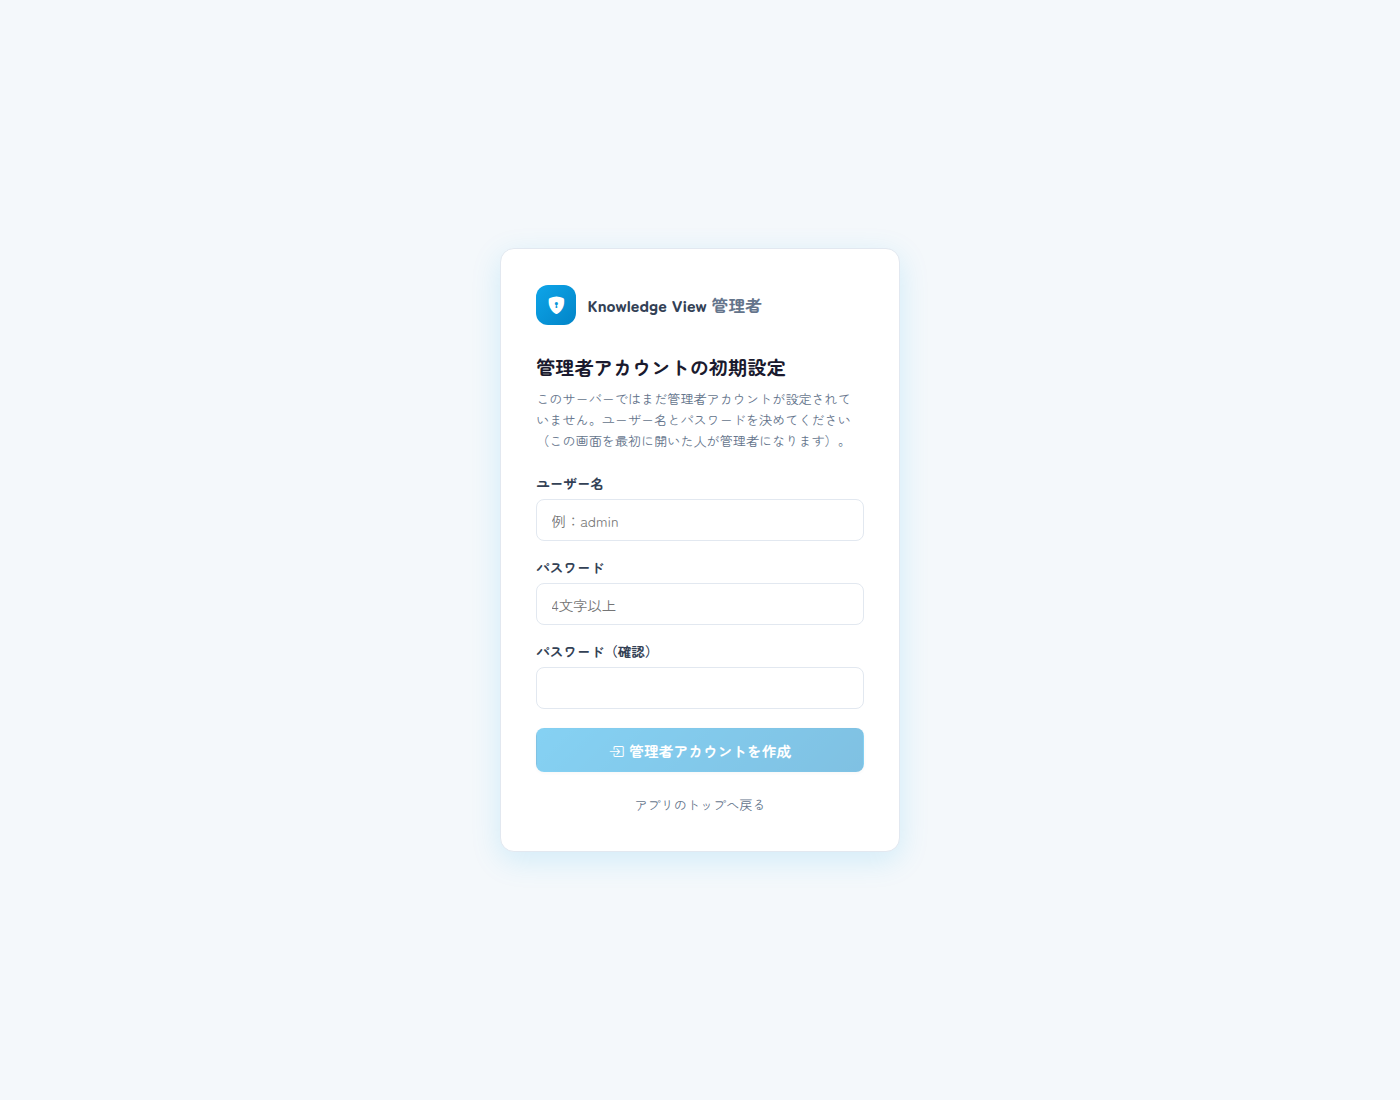
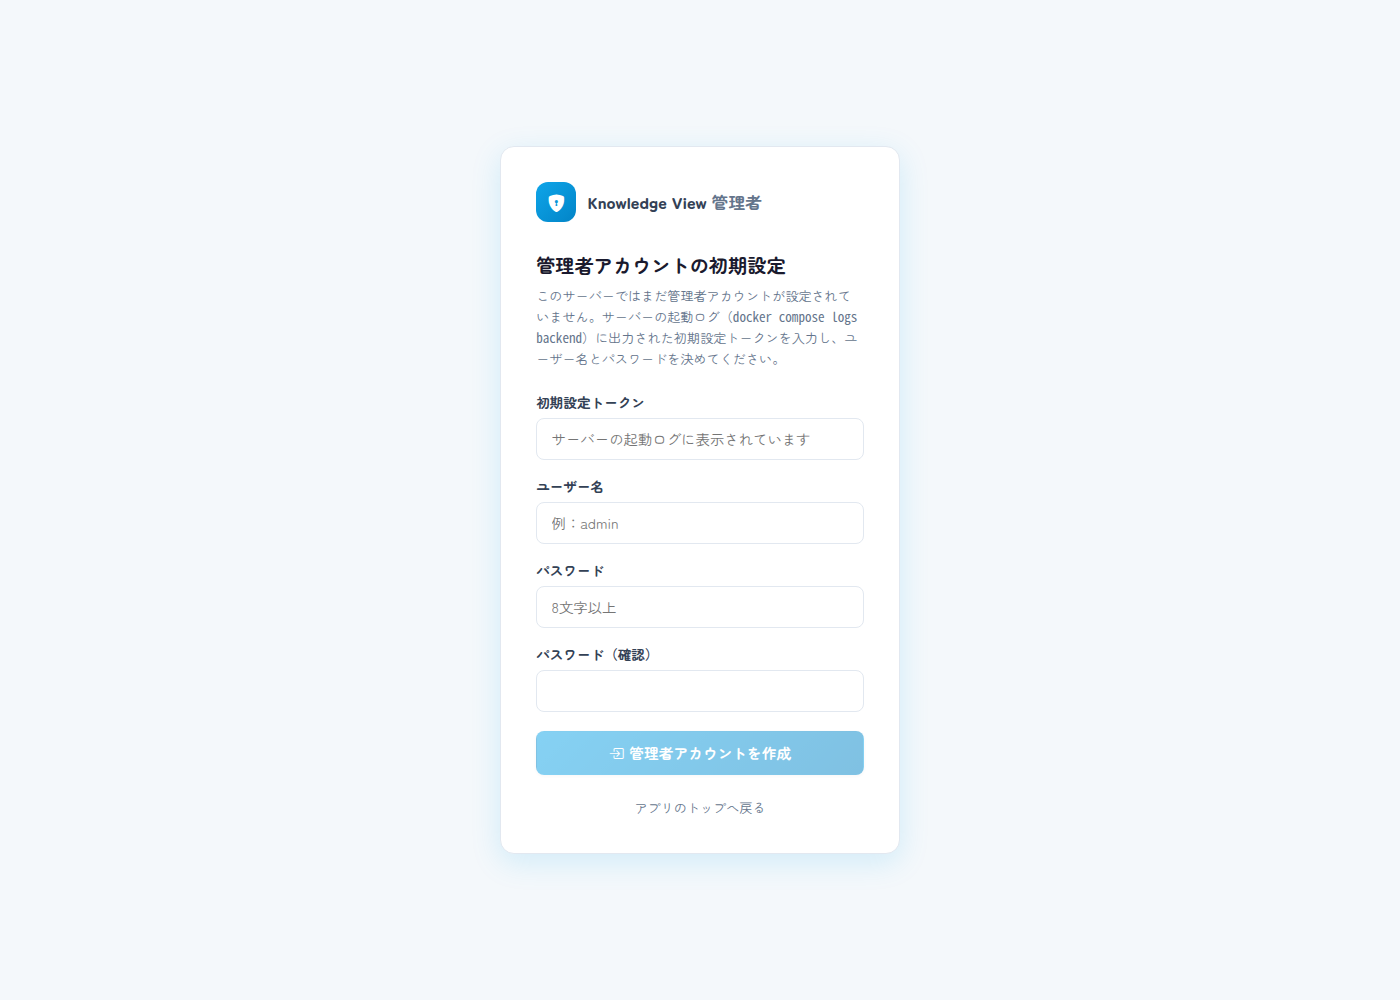
Update manual/README for the setup-token flow, add in-page search
The manual and README still described the pre-hardening admin setup
flow (first visitor picks username/password, no token). Updated both
to match the current flow, and regenerated the setup screenshot to
show the token field.

Also added a find-in-page style search to the manual (docs/manual.html):
keyword input with match count, next/prev navigation, and highlighting,
implemented as a dependency-free text-node walker so it doesn't touch
existing markup (images, code blocks, etc.).

Changed region(s): [[0.3686, 0.186, 0.6143, 0.62], [0.3686, 0.651, 0.645, 0.806]]

diff --git a/docs/manual.html b/docs/manual.html
@@ -22,6 +22,14 @@
 <div class="manual-hero container">
   <h1>取り扱い説明書</h1>
   <p>アカウント作成から本文エディタの使い方、チームでの運用、サーバー管理者向けの管理者パネル、デスクトップ版の使い方までをまとめています。</p>
+  <div class="manual-search">
+    <i class="manual-search-icon">🔍</i>
+    <input type="text" id="manual-search-input" placeholder="ページ内をキーワードで検索..." autocomplete="off">
+    <span id="manual-search-count"></span>
+    <button type="button" id="manual-search-prev" title="前へ" aria-label="前の一致へ">▲</button>
+    <button type="button" id="manual-search-next" title="次へ" aria-label="次の一致へ">▼</button>
+    <button type="button" id="manual-search-clear" title="クリア" aria-label="検索をクリア">✕</button>
+  </div>
 </div>
 
 <div class="container manual-layout">
@@ -172,8 +180,8 @@
       <p class="lead">サーバー版には、すべてのプロジェクトを横断的に管理できる管理者アカウントがあります。デスクトップ版にはこの機能はありません。</p>
 
       <h3>初回セットアップ</h3>
-      <p>サーバーを起動した後、最初に <code>/admin</code> を開いた人がユーザー名・パスワードを決めます。一度設定すると、以降は誰でも初期設定画面には戻れず、通常のログイン画面になります。</p>
-      <img src="assets/manual-admin-setup.png" alt="管理者アカウントの初期設定画面">
+      <p>サーバーを起動すると、初期設定トークンが自動生成されサーバーの起動ログに出力されます（<code>docker compose logs backend</code> で確認できます。ユーザーが何かを事前に設定する必要はありません）。<code>/admin</code> を開き、そのトークンを入力した上でユーザー名・パスワードを決めてください。一度設定すると、以降は誰でも初期設定画面には戻れず、通常のログイン画面になります。</p>
+      <img src="assets/manual-admin-setup.png" alt="管理者アカウントの初期設定画面（初期設定トークンの入力欄あり）">
 
       <h3>管理者パネルでできること</h3>
       <img src="assets/manual-admin-dashboard.png" alt="管理者パネルのダッシュボード">
@@ -225,3 +233,115 @@
     <p><a href="https://github.com/nishi-25/knowledge-tool" target="_blank" rel="noopener">GitHub リポジトリ</a> ・ <a href="index.html">Knowledge View トップページ</a></p>
   </div>
 </footer>
+
+<script>
+(function () {
+  const content = document.querySelector('.manual-content');
+  const input = document.getElementById('manual-search-input');
+  const countEl = document.getElementById('manual-search-count');
+  const prevBtn = document.getElementById('manual-search-prev');
+  const nextBtn = document.getElementById('manual-search-next');
+  const clearBtn = document.getElementById('manual-search-clear');
+  if (!content || !input) return;
+
+  const pristineHTML = content.innerHTML;
+  let hits = [];
+  let currentIndex = -1;
+
+  function escapeRegExp(s) {
+    return s.replace(/[.*+?^${}()|[\]\\]/g, '\\$&');
+  }
+
+  function clearHighlights() {
+    content.innerHTML = pristineHTML;
+    hits = [];
+    currentIndex = -1;
+  }
+
+  function highlight(query) {
+    const re = new RegExp(escapeRegExp(query), 'gi');
+    const walker = document.createTreeWalker(content, NodeFilter.SHOW_TEXT, {
+      acceptNode(node) {
+        if (!node.nodeValue || !re.test(node.nodeValue)) return NodeFilter.FILTER_REJECT;
+        re.lastIndex = 0;
+        const parentTag = node.parentNode && node.parentNode.tagName;
+        if (parentTag === 'SCRIPT' || parentTag === 'STYLE') return NodeFilter.FILTER_REJECT;
+        return NodeFilter.FILTER_ACCEPT;
+      },
+    });
+
+    const targets = [];
+    let n;
+    // eslint-disable-next-line no-cond-assign
+    while ((n = walker.nextNode())) targets.push(n);
+
+    targets.forEach((textNode) => {
+      const text = textNode.nodeValue;
+      re.lastIndex = 0;
+      const frag = document.createDocumentFragment();
+      let lastEnd = 0;
+      let m;
+      // eslint-disable-next-line no-cond-assign
+      while ((m = re.exec(text))) {
+        if (m.index > lastEnd) frag.appendChild(document.createTextNode(text.slice(lastEnd, m.index)));
+        const mark = document.createElement('mark');
+        mark.className = 'manual-hit';
+        mark.textContent = m[0];
+        frag.appendChild(mark);
+        lastEnd = m.index + m[0].length;
+        if (m.index === re.lastIndex) re.lastIndex++; // 空マッチ対策
+      }
+      if (lastEnd < text.length) frag.appendChild(document.createTextNode(text.slice(lastEnd)));
+      textNode.parentNode.replaceChild(frag, textNode);
+    });
+
+    hits = Array.from(content.querySelectorAll('mark.manual-hit'));
+  }
+
+  function updateCount() {
+    countEl.textContent = hits.length ? `${currentIndex + 1} / ${hits.length}` : (input.value ? '0件' : '');
+    prevBtn.disabled = hits.length === 0;
+    nextBtn.disabled = hits.length === 0;
+  }
+
+  function goTo(index) {
+    if (!hits.length) return;
+    if (currentIndex >= 0 && hits[currentIndex]) hits[currentIndex].classList.remove('current');
+    currentIndex = (index + hits.length) % hits.length;
+    const el = hits[currentIndex];
+    el.classList.add('current');
+    el.scrollIntoView({ behavior: 'smooth', block: 'center' });
+    updateCount();
+  }
+
+  function runSearch() {
+    clearHighlights();
+    const query = input.value.trim();
+    if (!query) {
+      updateCount();
+      return;
+    }
+    highlight(query);
+    updateCount();
+    if (hits.length) goTo(0);
+  }
+
+  input.addEventListener('input', runSearch);
+  input.addEventListener('keydown', (e) => {
+    if (e.key === 'Enter') {
+      e.preventDefault();
+      if (hits.length) goTo(currentIndex + (e.shiftKey ? -1 : 1));
+    }
+  });
+  prevBtn.addEventListener('click', () => goTo(currentIndex - 1));
+  nextBtn.addEventListener('click', () => goTo(currentIndex + 1));
+  clearBtn.addEventListener('click', () => {
+    input.value = '';
+    clearHighlights();
+    updateCount();
+    input.focus();
+  });
+
+  updateCount();
+})();
+</script>

diff --git a/docs/styles.css b/docs/styles.css
@@ -376,6 +376,69 @@ footer a { font-weight: 700; color: var(--primary-dark); text-decoration: none; 
   font-size: 0.95rem;
 }
 
+.manual-search {
+  display: flex;
+  align-items: center;
+  gap: 0.5rem;
+  max-width: 480px;
+  margin: 1.6rem auto 0;
+  background: var(--surface);
+  border: 1px solid var(--border);
+  border-radius: 12px;
+  padding: 0.5rem 0.8rem;
+  box-shadow: var(--shadow);
+}
+
+.manual-search-icon { font-style: normal; opacity: 0.6; font-size: 0.9rem; }
+
+.manual-search input {
+  flex: 1;
+  border: none;
+  outline: none;
+  font-size: 0.9rem;
+  background: transparent;
+  color: var(--text-body);
+  min-width: 0;
+}
+
+.manual-search #manual-search-count {
+  font-size: 0.78rem;
+  color: var(--text-muted);
+  white-space: nowrap;
+  min-width: 2.4em;
+  text-align: right;
+}
+
+.manual-search button {
+  border: none;
+  background: none;
+  cursor: pointer;
+  color: var(--text-muted);
+  font-size: 0.75rem;
+  padding: 0.2em 0.35em;
+  border-radius: 6px;
+  line-height: 1;
+}
+
+.manual-search button:hover { background: var(--slate-100); color: var(--text-strong); }
+.manual-search button:disabled { opacity: 0.3; cursor: default; }
+.manual-search button:disabled:hover { background: none; }
+
+mark.manual-hit {
+  background: #fef08a;
+  color: inherit;
+  border-radius: 3px;
+  padding: 0 1px;
+}
+
+mark.manual-hit.current {
+  background: #fb923c;
+}
+
+@media (max-width: 640px) {
+  .manual-search { flex-wrap: wrap; }
+}
+
 .manual-layout {
   display: grid;
   grid-template-columns: 230px 1fr;

diff --git a/README.md b/README.md
@@ -36,7 +36,7 @@ KV_WEB_PORT=9090 docker compose up --build
 - 初回はアカウント作成後、プロジェクトの作成／参加申請を行うセットアップ画面が表示されます。
 - 複数のプロジェクト（ワークスペース）を作成でき、それぞれ記事・フォルダ・タグは完全に分離されます。「設定」画面からいつでも切り替え可能です。
 - データは既定では `backend/data/` にJSONファイルとして永続化されます（bind mount）。
-- 初めて `/admin` を開いた人が管理者のユーザー名・パスワードを設定します。
+- `/admin` を開くと管理者アカウントの初期設定画面が表示されます。`docker compose logs backend` に出力される初期設定トークンを入力し、ユーザー名・パスワードを決めてください（トークンは自動生成されるため、事前に何か設定しておく必要はありません）。一度設定すると以降は通常のログイン画面になります。
 
 ### Windows の D ドライブなど、実際のフォルダを保存先に選ぶ
 
